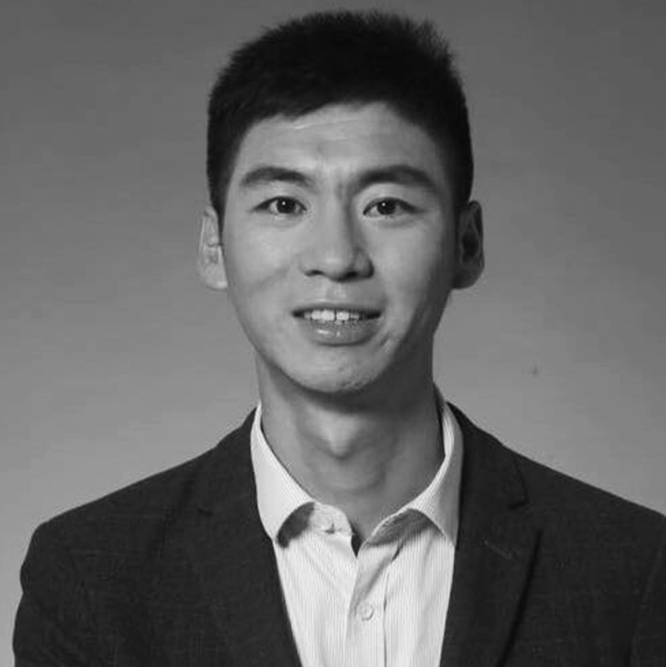
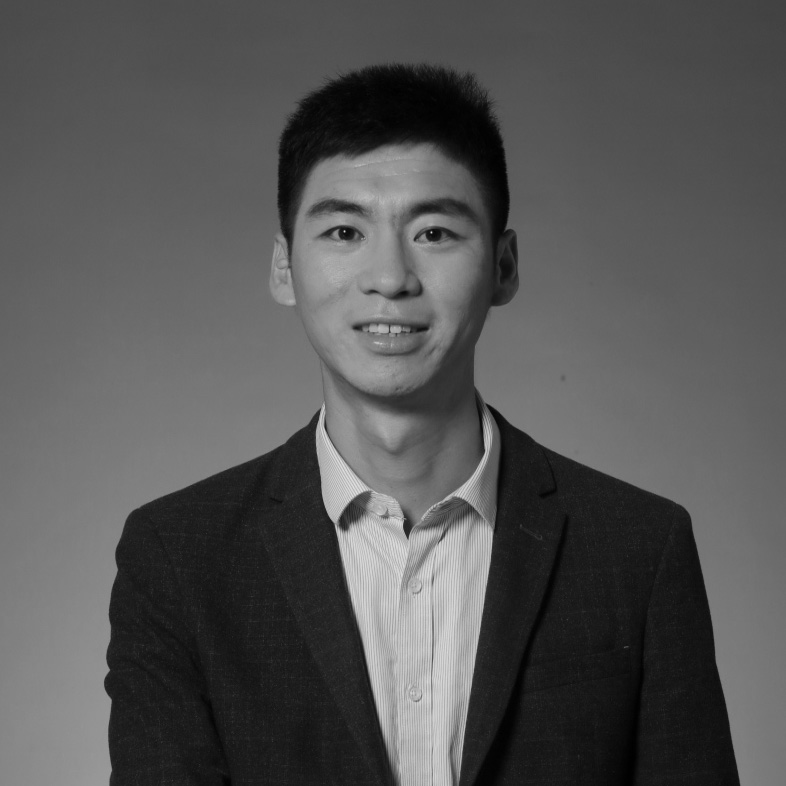
bug

diff --git a/public/populstay_webpage/css/main.css b/public/populstay_webpage/css/main.css
@@ -1,4 +1,4 @@
-body,button,ul{margin:0}.col-2,.col-3,.col-4,.col-5,.col-6,.col-7{float:left}*{font-family:"Helvetica Neue",Helvetica,"Hiragino Sans GB","Microsoft YaHei","Noto Sans CJK SC","WenQuanYi Micro Hei",Arial,sans-serif;box-sizing:border-box;font-size:14px}body{padding-bottom:70px}ul{list-style:none;padding-left:0}button{padding:0}h2{font-size:24px}h3{font-size:20px}p{line-height:1.4em}label{font-size:14px}span{font-size:12px}a{text-decoration:none;color:inherit}.text-center{text-align:center}.text-right{text-align:right}.align-middle{vertical-align:middle}.align-top{vertical-align:top}.col-2{width:20%}.col-3{width:30%}.col-4{width:40%}.col-5{width:50%}.col-6{width:60%}.col-7{width:70%}.container{max-width:1000px;margin:auto}.sub-container{max-width:900px;margin:auto}.road-map{padding:70px 10px}.road-map__title{width:25%;margin-bottom:70px}.road-map__content{width:100%;padding-top:80%;background-image:url(../img/road-map.png);background-repeat:no-repeat;background-size:100% auto;background-position:center center}.loading{text-align:center;position:fixed;width:100%;height:100%;background:#151b4e;z-index:200}.loading.hidden{display:none!important}.spinner{width:40px;height:40px;position:relative;top:50%;margin:20px auto;-webkit-transform:translateY(-50%);-moz-transform:translateY(-50%);-o-transform:translateY(-50%);-ms-transform:translateY(-50%);transform:translateY(-50%)}.double-bounce1,.double-bounce2{width:100%;height:100%;border-radius:50%;background-color:#f5426c;opacity:.6;position:absolute;top:0;left:0;-webkit-animation:sk-bounce 2s infinite ease-in-out;animation:sk-bounce 2s infinite ease-in-out}.double-bounce2{-webkit-animation-delay:-1s;animation-delay:-1s}.qrcode-modal-img{width:100%}@-webkit-keyframes sk-bounce{0%,100%{-webkit-transform:scale(0)}50%{-webkit-transform:scale(1)}}@keyframes sk-bounce{0%,100%{transform:scale(0);-webkit-transform:scale(0)}50%{transform:scale(1);-webkit-transform:scale(1)}}@media (max-width:1200px){.container{max-width:800px}.sub-container{max-width:720px}}@media (max-width:1024px){h2{font-size:20px}h3{font-size:14px}label{font-size:12px}span{font-size:11px}}@media (max-width:960px){p{font-size:12px}.container{max-width:640px}.sub-container{max-width:600px}}@media (max-width:767px){.road-map{padding-top:20px;padding-bottom:20px}.road-map__title{margin:14px 0;width:36%}.road-map__content{padding-top:285%;background-image:url(../img/road-map-mobile.png)}}.header{position:relative;padding-top:50%;min-height:500px;background-color:#2e246d;color:#fff;background-image:url(../img/homepage_bg.jpg);background-repeat:no-repeat;background-size:cover}.header__content{position:absolute;left:0;right:0;top:50%;padding:0 10px;transform:translateY(-50%);-webkit-transform:translateY(-50%);-moz-transform:translateY(-50%);-ms-transform:translateY(-50%)}.header__logo{position:absolute;top:0;left:0;margin:24px;max-height:70px}.header__title{margin:0 0 .5em;line-height:1em;font-size:100px}.header__social-icons{padding:1em 0;color:#5f3082}.header__social-icons:after,.header__social-icons:before{content:"";vertical-align:middle;display:inline-block;height:1px;width:150px;background-color:#fff}.header__social-icons .iconfont{font-size:16px;line-height:26px}.header__social{display:inline-block;margin:0 3px}.header__social a{display:inline-block;width:26px;height:26px;background-color:#fff;border-radius:50%}.header__description{font-weight:300;line-height: 1.9;}.header__description a{text-decoration:underline}.header__demo-button{display:inline-block;margin:20px 0;font-size:0}.header__demo-button img{max-height:30px;float:left}.header__demo-button-text{display:inline-block;padding:0 15px;margin-left:-1px;border:2px solid #fff;height:30px;line-height:26px;font-weight:200}.advantage{padding:45px 10px 30px;color:#555;background:#f7f7f7}.advantage__list{font-size:0}.advantage__list img{position:relative;height:inherit;z-index:1}.advantage__list label{display:block;font-weight:700}.advantage__list span{font-weight:300}.advantage__item{position:relative;display:inline-block;padding:0 15px 0 0;min-width: 150px;}.advantage__item:first-child{padding-right:30px}.advantage__item:first-child .advantage__icon:before{width:30%;left:auto;right:0}.advantage__item:first-child .advantage__icon:after{right:-15px}.advantage__icon{display:block;margin-bottom:14px;height:48px}.advantage__icon:after,.advantage__icon:before{content:"";position:absolute;left:0;display:inline-block;height:2px;width:100%;background-color:#555;transform:translateY(24px);-webkit-transform:translateY(24px);-moz-transform:translateY(24px);-ms-transform:translateY(24px)}.advantage__icon:after{top:-4px;left:auto;right:15px;height:10px;width:10px;border-radius:50%}.advantage__logo{padding-right:0}.advantage__logo .advantage__icon{padding-left:40px;height:80px}.advantage__logo .advantage__icon img{transform:translateY(-10%);-webkit-transform:translateY(-10%);-moz-transform:translateY(-10%);-ms-transform:translateY(-10%)}.advantage__logo .advantage__icon:before{width:10%}.advantage__logo .advantage__icon:after{top:-7px;left:4%;right:auto;height:8px;width:8px;border:4px solid #151b4e;background-color:#f5426c}.lock-design:before,.story:before{left:-10px;content:""}.story-product__container{padding:0 10px;background-repeat:no-repeat;background-size:100% auto;background-position:center center}.story-product__container:after{content:"";display:block;margin:-20px auto 0;border-left:1px solid #151b4e;max-width:999px;height:20px}.story-product__description{padding:14px 0;margin:auto;font-size:12px;color:#827d77;opacity:.8}.story{position:relative;padding:0 10px}.story:before{position:absolute;bottom:0;width:50%;height:1px;background-color:#f5426c}.story .col-3:before{content:"";display:block;padding-top:56%}.story .story-product__description{width:60%}.story__content{border-bottom:1px solid #f5426c}.story__content:after{content:"";display:block;clear:both}.story__avatar{position:relative;width:70%;background:#fff;display:inline-block}.story__article{padding:50px 0 100px;border-right:1px solid #f5426c}.story__title{font-size:0}.story__title-img{display:inline-block;padding-left:15%;width:100%}.story__subtitle{text-align:center;padding:40px 0;margin:0;color:#f5426c}.product{-webkit-transform:translateY(-20px);-moz-transform:translateY(-20px);transform:translateY(-20px)}.product__title{text-align:right;margin-right:-40px;border-width:1px 0 0 1px;border-style:solid;border-color:#151b4e}.lock-design .container,.platform .container,.product__article{border-left:1px solid #151b4e}.product__title-img{width:50%;display:inline-block}.product__subtitle{padding:50px 0}.product__subtitle-img{width:50%}.product__article{padding:40px}.lock-design{position:relative;padding:0 10px;max-width:100%;overflow-x:hidden}.lock-design:before{position:absolute;top:0;display:block;width:50%;height:100%;background-color:#f7f7f7}.lock-design li{text-align:center;display:inline-block;width:15%;background-repeat:no-repeat;background-size:100% auto;background-position:center}.lock-design li:before{content:"";display:block;width:100%}.lock-design .container{position:relative;padding:40px 45px;background-color:#f7f7f7;border-radius:0 24px 24px 0;z-index:1}.lock-design__title{margin:0;color:#555;font-weight:500}.lock-design__intro{text-align:right;padding:50px 10px}.lock-design li.lock-design__avatar{margin:0 20px;width:12%;background-image:url(../img/lock-design-avatar.png)}.lock-design li.lock-design__avatar:before{padding-top:104%}.lock-design li.lock-design__avatar:after{display:block;color:#555;transform:translateY(100%);-webkit-transform:translateY(100%);-moz-transform:translateY(100%);-ms-transform:translateY(100%)}.blog__content:after,.blog__feedback+.blog__feedback:before,.communication__detail:after,.contact-us:before,.contact-us__card:after,.intro .container:after,.intro .container:before,.intro__partners:after,.lock-design__intro~.lock-design__intro .lock-design__locker:after,.machine .container:after,.news .container:before,.organization .container:after,.platform .col-4:before,.platform .container:after,.sub-container .services__detail:before{content:""}.lock-design__process{background-image:url(../img/lock-design-process1.png)}.lock-design__process:before{padding-top:100%}.lock-design__process~.lock-design__process{background-image:url(../img/lock-design-process2.png)}.lock-design__locker{position:relative;background-image:url(../img/lock-design-locker.png)}.lock-design__locker:before{padding-top:120%}.platform{position:relative;padding:0 10px}.platform .container:after{display:block;clear:both}.platform__intro{position:absolute;top:50px;left:0;right:0;background:#f7f7f7}.platform__intro h3{padding:10px 45px;margin:0}.platform .col-4{position:relative}.platform .col-4:before{position:absolute;left:-1px;display:block;width:1px;height:100%;background-color:#151b4e}.platform .col-6{position:relative;padding-top:28%;padding-bottom:50px;z-index:1}.platform__bg{padding:150px 0 100px;margin-left:-15%;width:120%}.platform__title{padding:10px 0;width:60%}.blog__img,.organization__title{width:100%}.platform__subtitle{padding:14px 0;margin:0;color:#555}.platform__description{margin:30px 0;color:#827d77;opacity:.8}.organization{padding:0 10px}.organization .container{padding-bottom:80px;background-image:url(../img/organization-bg.png);background-repeat:no-repeat;background-size:auto 90%;background-position:right center}.organization .container:after{display:block;clear:both}.organization__detail{padding-left:10%}.organization__subtitle{padding:14px 0;color:#555}.organization__description{color:#827d77;opacity:.8}.lorem-ipsum{position:relative;padding:0 10px}.lorem-ipsum iframe{position:absolute;left:0;top:0}.lorem-ipsum__title{color:#555}.lorem-ipsum__hint{width:80%;line-height:1.9em;color:#827d77;opacity:.8}.lorem-ipsum__video{position:relative;width:50%;float:left;}.blog{padding:0 10px;margin-top:70px;margin-bottom:70px}.blog .sub-container{border:1px solid #151b4e;transform:translate(15px,-15px);-webkit-transform:translate(15px,-15px);-moz-transform:translate(15px,-15px);-ms-transform:translate(15px,-15px)}.blog__detail{position:relative;padding:30px 50px;border:1px solid #f5426c;background-color:#fff;transform:translate(-15px,15px);-webkit-transform:translate(-15px,15px);-moz-transform:translate(-15px,15px);-ms-transform:translate(-15px,15px)}.blog__title{margin:20px 0;color:#555}.blog__subtitle{display:block;margin:20px 0 40px;font-weight:300}.blog__content{position:relative;padding:50px 0;border-width:1px 0;border-style:solid;border-color:#827d77}.blog__content:after{display:block;clear:both;bottom:0}.blog__img{display:block;height:auto;min-height:1px;background:#f7f7f7;margin-left: 5%;width: 90%;}.blog__feedback,.blog__social,.blog__social a,.blog__social-icons{display:inline-block}.blog__next-btn,.blog__prev-btn,.intro__divider,.intro__team-item-img,.services__type-line,.subscribe,.subscribe__logo{background-repeat:no-repeat}.blog__tag{padding:3px 20px;line-height:1em;color:#fff;background-color:#f5426c;font-weight:300;font-style:normal}.blog__article-title{margin:30px auto;max-width:200px;color:#555}.blog__article{margin:0 auto 50px;font-size:16px;max-width:350px;color:#827d77;font-weight:300;opacity:.8}.blog__view-more-btn{color:#f5426c;cursor:pointer;font-size:12px}.blog__feedback{color:#555}.blog__feedback+.blog__feedback:before{vertical-align:middle;display:inline-block;margin:0 5px;width:1px;height:10px;background-color:#555}.blog__message-icon,.blog__share-icon,.blog__watch-icon{max-height:12px}.blog__social-container{padding:30px 0;color:#555}.blog__social-container label{font-size:12px}.blog__social{margin:0 3px;color:#fff}.blog__social a{width:20px;height:20px;background-color:#555;border-radius:50%}.blog__social .iconfont{font-size:12px;line-height:20px}.blog__next-btn,.blog__prev-btn{cursor:pointer;position:absolute;top:50%;width:50px;height:50px;background-size:100% 100%;transform:translateY(-50%);-webkit-transform:translateY(-50%);-moz-transform:translateY(-50%);-ms-transform:translateY(-50%)}.blog__prev-btn{left:-25px;background-image:url(../img/blog-prev.png)}.blog__next-btn{right:-25px;background-image:url(../img/blog-next.png)}.services{padding:0 10px;color:#fff}.services h3{margin:0}.services h4{font-size:16px;font-weight:300}.services .col-3{margin:0 10%}.services .sub-container{border:1px solid #f5426c;background-color:#fff;transform:translate(20px,20px);-webkit-transform:translate(20px,20px);-moz-transform:translate(20px,20px);-ms-transform:translate(20px,20px)}.sub-container .services__detail{position:relative;padding:10% 0;background-color:#151b4e;transform:translate(-20px,-20px);-webkit-transform:translate(-20px,-20px);-moz-transform:translate(-20px,-20px);-ms-transform:translate(-20px,-20px)}.sub-container .services__detail:before{position:absolute;left:0;top:20px;padding-top:12%;width:50%;background-image:url(../img/service-pic.png);background-repeat:no-repeat;background-position:top left;background-size:80% auto;transform:translateX(-5%);-webkit-transform:translateX(-5%);-moz-transform:translateX(-5%);-ms-transform:translateX(-5%)}.intro__divider,.intro__team-item-img,.news .container:before,.services__type-line,.subscribe,.subscribe__logo{background-size:100% auto}.sub-container .services__detail:after{content:"";display:block;clear:both}.services__title{margin:10px 0 60px;font-size:30px}.services__type-line{display:block;margin:auto;width:30%;padding-top:8%;background-image:url(../img/service-line.png);background-position:left center}.services__roles{width:60%;margin:auto}.services__roles span{display:block;margin:10px 0 15px;min-height:30px}.services__role-effect-icon{width:100%}.intro{padding:0 10px;margin:50px 0}.intro .container{position:relative;font-size:0}.intro .container:after,.intro .container:before{position:absolute;display:block;width:1px;height:100%}.intro__team-item,.intro__team-item a{display:inline-block}.intro .container:before{top:15%;left:1%;background-color:#f5426c}.intro .container:after{top:18%;right:1.8%;background-color:#151b4e}.intro .container~.container:after,.intro .container~.container:before{top:0}.intro__bottom-line{position:absolute;width:80%;height:14px}.intro__bottom-line.pink{bottom:-14px;left:1%;border-bottom:1px solid #f5426c;border-left:1px solid #f5426c}.intro__bottom-line.blue{bottom:0;right:1.8%;border-bottom:1px solid #151b4e;border-right:1px solid #151b4e}.intro__team-title{width:100%}.intro__team-wrapper{padding:70px 0;font-size:0}.intro__team-item{margin-bottom:30px;width:33.333333%}.intro__team-item a~a{display:block;margin:15px auto 5px;width:120px}.intro__team-item-img{display:inline-block;width:100px;height:100px;border:2px solid #f5426c;border-radius:50%;margin:0 auto;background-position:30% 20%;}.intro__team-item-img.wang{background-image:url(../img/team-wangyue.jpg)}.intro__team-item-img.cai{background-image:url(../img/team-cai.jpg)}.intro__team-item-img.lin{background-image:url(../img/team-brainLin.jpg)}.intro__team-item-img.l-jun,.intro__team-item-img.tao{background-image:url(../img/team-cai.jpg)}.intro__team-item-img.zhong{background-image:url(../img/team-christie.jpg)}.intro__team-item-img.e{background-image:url(../img/team-e.jpg)}.intro__team-item-img.dw-jun{background-image:url(../img/team-eric.jpg)}.intro__team-item-name{display:block;padding:5px 0;width:100%;color:#fff;background-color:#f5426c;font-style:normal}.intro__team-item-title{color:#827d77;font-weight:300}.intro__partner-container{position:relative;padding:70px 0}.intro__partner-title{margin-bottom:50px;width:25%}.intro__partners{margin:auto;width:70%}.intro__partners:after{display:block;clear:both}.intro__partner{float:left;padding:0 5%;margin:5px 0;width:33.333333%;min-height:100px;position:relative;}.intro__partner a{display:block}.intro__partner img{width:80%;position: absolute;top:50%;left:50%;transform: translate(-50%,-50%)}.intro__partner:first-child img{padding:10px 0}.intro__divider{width:50%;padding-top:7%;margin-left:50%;background-image:url(../img/team-pic.png);background-position:top center}.subscribe{text-align:center;padding:70px 0;background-image:url(../img/email-bg.jpg);background-position:center center}.subscribe__logo{display:block;margin:auto;width:50px;height:50px;background-image:url(../img/email-icon.png)}.subscribe__title{margin:30px 0;color:#fff;font-weight:300}.subscribe__email{position:relative;margin:0 auto;max-width:400px;height:40px;font-size:0}.subscribe__email-validate-error{position:absolute;left:0;top:44px;color:red;font-size:13px}.subscribe__input{display:inline-block;font-size:14px;width:65%;height:100%;color:#555}.subscribe__input input{padding:3px 12px;width:100%;height:100%;border:0;font-weight:300}.subscribe__btn{display:inline-block;width:35%;height:100%}.subscribe__btn button{margin-left:-2px;border:0;font-size:12px;width:100%;height:100%;color:#fff;background-color:#151b4e;font-weight:300}.news{padding:70px 10px;background-image:url(../img/new-bg.png);background-position:top left;background-repeat:repeat-x}.communication__bg,.contact-us,.contact-us__icon,.footer__info-img,.machine .col-5~.col-5,.news .container:before{background-repeat:no-repeat}.news .container{position:relative}.news .container:before{display:block;width:100%;padding-top:55%;}.news__detail{position:absolute;left:0;bottom:0;width:100%;height:70%}.news__content{display:block;width:45%;margin:auto}.news__title{width:50%;margin:4% auto}.news__channels{width:70%;margin:auto;font-size:0}.news__channel{display:inline-block;padding:0 15px;width:25%}.news__channel a{display:block}.news__channel img{width:100%}.machine{padding:0 10px}.machine .container{position:relative}.machine .container:after{display:block;clear:both}.machine .col-5{padding:50px 0 40px 3%}.machine .col-5~.col-5{position:absolute;left:50%;height:100%;background-image:url(../img/吉祥物-05.gif);background-size:80% auto;background-position:right center}.machine__title-img{width:50%}.machine__subtitle{color:#555}.machine__description{color:#827d77;opacity:.8}.communication{padding:0 10px}.communication__detail{position:relative}.communication__detail:after{display:block;clear:both}.communication .col-5{padding:50px 0}.communication .col-5:first-child{position:absolute;left:0;height:100%;background-image:url(../img/communication-pic.png);background-repeat:no-repeat;background-size:85%;background-position:center center}.communication .col-5~.col-5{margin-left:50%;padding-right:5%}.communication__title-img{width:105%}.communication__subtitle{color:#555}.communication__description{color:#827d77;opacity:.8}.communication__bg{width:100%;padding-top:10%;background-image:url(../img/communication-bg.png);background-size:auto 100%;background-position:right center}.contact-us{padding:70px 0;background-image:url(../img/contact-us-bg.png);background-size:100% 80%;background-position:left top}.contact-us input[type=number]::-webkit-inner-spin-button,.contact-us input[type=number]::-webkit-outer-spin-button{-webkit-appearance:none;-moz-appearance:textfield}.contact-us .col-5{padding-top:50px}.contact-us:before{display:block;width:100%;padding-top:20%}.contact-us__card{padding:50px 30px;margin-left:40%;width:60%;background-color:rgba(255,255,255,.8);border-radius:12px;box-shadow:2px 2px 12px 0 rgba(0,0,0,.4)}.contact-us__card:after{display:block;clear:both}.contact-us__title{width:50%}.contact-us__form-item input{padding:6px 12px;margin:5px 0;border:1px solid #555;width:100%;height:36px;background-color:transparent;border-radius:12px}.contact-us__textarea{position:relative;margin:5px 0;border:1px solid #555;border-radius:12px}.contact-us__textarea label{display:block;padding:9px 12px;margin-top:-1px;border:1px solid #555;color:#f5426c;border-radius:12px}.contact-us__textarea textarea{padding:6px 12px;width:100%;border:0;background-color:transparent;resize:none;outline:0}.contact-us__textarea .formtips{position:absolute;margin-top:5px}.contact-us__submit{margin-top:50px;max-width:100px;border:0;background-color:transparent}.contact-us__submit img{width:100%}.contact-us__contacter-info{padding-left:10%}.contact-us__contacter-info label{display:block;margin-bottom:16px;color:#555}.contact-us__tag{display:inline-block;padding:3px 15px;margin:7px 0;color:#fff;background-color:#555}.contact-us__tag i{font-size:12px;font-style:normal;font-weight:300}.contact-us__contacter li{margin-bottom:17px;margin-top: 5px;}.contact-us__icon{display:inline-block;width:30px;height:30px;background-size:100% auto;background-position:center}.contact-us__icon.name{background-image:url(../img/contact-us-user.png)}.contact-us__icon.email{background-image:url(../img/contact-us-message.png)}.contact-us__icon.phone{background-image:url(../img/contact-us-phone.png)}.contact-us__icon~span{margin-left:10px;color:#f5426c}.contact-us .formtips{color:red}.footer .header__social-icons{font-size:0;color:#fff}.footer .header__social-icons:after,.footer .header__social-icons:before{content:none}.footer .header__social{margin-top:3px;margin-bottom:3px}.footer .header__social a{background-color:#827d77}.footer__info{border-bottom:1px solid #f5426c;font-size:0}.footer__info:after{content:"";display:block;clear:both}.footer__contact{padding-top:2%}.footer__contact-title{color:#555;font-weight:400}.footer__follow{padding-top:2%;padding-left:5%}.footer__contact-address,.footer__contact-email{font-size:12px;color:#827d77}.footer__follow-title{margin-left:15px;margin-right:3px;color:#555;font-weight:400}.footer__copyright{margin:30px 0}.footer__copyright-title{display:inline-block;max-width:300px}.footer__copyright-logo{display:inline-block;margin:0 20px;max-width:44px}#prompt{display: none;position: fixed;top:50%;left: 50%;transform:translate(-50%,-50%);background: #fff;border:1px solid #f5426c;padding:3% 5%;border-radius: 8px;}#prompt h3{color: #f5426c;margin-bottom: 30px;font-size: 1.8rem;}#prompt button{cursor: pointer;width: 100%;background: #fff;border:1px solid #f5426c;color: #f5426c;padding: 2% 0;border-radius: 8px;}
+body,button,ul{margin:0}.col-2,.col-3,.col-4,.col-5,.col-6,.col-7{float:left}*{font-family:"Helvetica Neue",Helvetica,"Hiragino Sans GB","Microsoft YaHei","Noto Sans CJK SC","WenQuanYi Micro Hei",Arial,sans-serif;box-sizing:border-box;font-size:14px}body{padding-bottom:70px}ul{list-style:none;padding-left:0}button{padding:0}h2{font-size:24px}h3{font-size:20px}p{line-height:1.4em}label{font-size:14px}span{font-size:12px}a{text-decoration:none;color:inherit}.text-center{text-align:center}.text-right{text-align:right}.align-middle{vertical-align:middle}.align-top{vertical-align:top}.col-2{width:20%}.col-3{width:30%}.col-4{width:40%}.col-5{width:50%}.col-6{width:60%}.col-7{width:70%}.container{max-width:1000px;margin:auto}.sub-container{max-width:900px;margin:auto}.road-map{padding:70px 10px}.road-map__title{width:25%;margin-bottom:70px}.road-map__content{width:100%;padding-top:80%;background-image:url(../img/road-map.png);background-repeat:no-repeat;background-size:100% auto;background-position:center center}.loading{text-align:center;position:fixed;width:100%;height:100%;background:#151b4e;z-index:200}.loading.hidden{display:none!important}.spinner{width:40px;height:40px;position:relative;top:50%;margin:20px auto;-webkit-transform:translateY(-50%);-moz-transform:translateY(-50%);-o-transform:translateY(-50%);-ms-transform:translateY(-50%);transform:translateY(-50%)}.double-bounce1,.double-bounce2{width:100%;height:100%;border-radius:50%;background-color:#f5426c;opacity:.6;position:absolute;top:0;left:0;-webkit-animation:sk-bounce 2s infinite ease-in-out;animation:sk-bounce 2s infinite ease-in-out}.double-bounce2{-webkit-animation-delay:-1s;animation-delay:-1s}.qrcode-modal-img{width:100%}@-webkit-keyframes sk-bounce{0%,100%{-webkit-transform:scale(0)}50%{-webkit-transform:scale(1)}}@keyframes sk-bounce{0%,100%{transform:scale(0);-webkit-transform:scale(0)}50%{transform:scale(1);-webkit-transform:scale(1)}}@media (max-width:1200px){.container{max-width:800px}.sub-container{max-width:720px}}@media (max-width:1024px){h2{font-size:20px}h3{font-size:14px}label{font-size:12px}span{font-size:11px}}@media (max-width:960px){p{font-size:12px}.container{max-width:640px}.sub-container{max-width:600px}}@media (max-width:767px){.road-map{padding-top:20px;padding-bottom:20px}.road-map__title{margin:14px 0;width:36%}.road-map__content{padding-top:285%;background-image:url(../img/road-map-mobile.png)}}.header{position:relative;padding-top:50%;min-height:500px;background-color:#2e246d;color:#fff;background-image:url(../img/homepage_bg.jpg);background-repeat:no-repeat;background-size:cover}.header__content{position:absolute;left:0;right:0;top:50%;padding:0 10px;transform:translateY(-50%);-webkit-transform:translateY(-50%);-moz-transform:translateY(-50%);-ms-transform:translateY(-50%)}.header__logo{position:absolute;top:0;left:0;margin:24px;max-height:70px}.header__title{margin:0 0 .5em;line-height:1em;font-size:100px}.header__social-icons{padding:1em 0;color:#5f3082}.header__social-icons:after,.header__social-icons:before{content:"";vertical-align:middle;display:inline-block;height:1px;width:150px;background-color:#fff}.header__social-icons .iconfont{font-size:16px;line-height:26px}.header__social{display:inline-block;margin:0 3px}.header__social a{display:inline-block;width:26px;height:26px;background-color:#fff;border-radius:50%}.header__description{font-weight:300;line-height: 1.9;}.header__description a{text-decoration:underline}.header__demo-button{display:inline-block;margin:20px 0;font-size:0}.header__demo-button img{max-height:30px;float:left}.header__demo-button-text{display:inline-block;padding:0 15px;margin-left:-1px;border:2px solid #fff;height:30px;line-height:26px;font-weight:200}.advantage{padding:45px 10px 30px;color:#555;background:#f7f7f7}.advantage__list{font-size:0}.advantage__list img{position:relative;height:inherit;z-index:1}.advantage__list label{display:block;font-weight:700}.advantage__list span{font-weight:300}.advantage__item{position:relative;display:inline-block;padding:0 15px 0 0;min-width: 150px;}.advantage__item:first-child{padding-right:30px}.advantage__item:first-child .advantage__icon:before{width:30%;left:auto;right:0}.advantage__item:first-child .advantage__icon:after{right:-15px}.advantage__icon{display:block;margin-bottom:14px;height:48px}.advantage__icon:after,.advantage__icon:before{content:"";position:absolute;left:0;display:inline-block;height:2px;width:100%;background-color:#555;transform:translateY(24px);-webkit-transform:translateY(24px);-moz-transform:translateY(24px);-ms-transform:translateY(24px)}.advantage__icon:after{top:-4px;left:auto;right:15px;height:10px;width:10px;border-radius:50%}.advantage__logo{padding-right:0}.advantage__logo .advantage__icon{padding-left:40px;height:80px}.advantage__logo .advantage__icon img{transform:translateY(-10%);-webkit-transform:translateY(-10%);-moz-transform:translateY(-10%);-ms-transform:translateY(-10%)}.advantage__logo .advantage__icon:before{width:10%}.advantage__logo .advantage__icon:after{top:-7px;left:4%;right:auto;height:8px;width:8px;border:4px solid #151b4e;background-color:#f5426c}.lock-design:before,.story:before{left:-10px;content:""}.story-product__container{padding:0 10px;background-repeat:no-repeat;background-size:100% auto;background-position:center center}.story-product__container:after{content:"";display:block;margin:-20px auto 0;border-left:1px solid #151b4e;max-width:999px;height:20px}.story-product__description{padding:14px 0;margin:auto;font-size:12px;color:#827d77;opacity:.8}.story{position:relative;padding:0 10px}.story:before{position:absolute;bottom:0;width:50%;height:1px;background-color:#f5426c}.story .col-3:before{content:"";display:block;padding-top:56%}.story .story-product__description{width:60%}.story__content{border-bottom:1px solid #f5426c}.story__content:after{content:"";display:block;clear:both}.story__avatar{position:relative;width:70%;background:#fff;display:inline-block}.story__article{padding:50px 0 100px;border-right:1px solid #f5426c}.story__title{font-size:0}.story__title-img{display:inline-block;padding-left:15%;width:100%}.story__subtitle{text-align:center;padding:40px 0;margin:0;color:#f5426c}.product{-webkit-transform:translateY(-20px);-moz-transform:translateY(-20px);transform:translateY(-20px)}.product__title{text-align:right;margin-right:-40px;border-width:1px 0 0 1px;border-style:solid;border-color:#151b4e}.lock-design .container,.platform .container,.product__article{border-left:1px solid #151b4e}.product__title-img{width:50%;display:inline-block}.product__subtitle{padding:50px 0}.product__subtitle-img{width:50%}.product__article{padding:40px}.lock-design{position:relative;padding:0 10px;max-width:100%;overflow-x:hidden}.lock-design:before{position:absolute;top:0;display:block;width:50%;height:100%;background-color:#f7f7f7}.lock-design li{text-align:center;display:inline-block;width:15%;background-repeat:no-repeat;background-size:100% auto;background-position:center}.lock-design li:before{content:"";display:block;width:100%}.lock-design .container{position:relative;padding:40px 45px;background-color:#f7f7f7;border-radius:0 24px 24px 0;z-index:1}.lock-design__title{margin:0;color:#555;font-weight:500}.lock-design__intro{text-align:right;padding:50px 10px}.lock-design li.lock-design__avatar{margin:0 20px;width:12%;background-image:url(../img/lock-design-avatar.png)}.lock-design li.lock-design__avatar:before{padding-top:104%}.lock-design li.lock-design__avatar:after{display:block;color:#555;transform:translateY(100%);-webkit-transform:translateY(100%);-moz-transform:translateY(100%);-ms-transform:translateY(100%)}.blog__content:after,.blog__feedback+.blog__feedback:before,.communication__detail:after,.contact-us:before,.contact-us__card:after,.intro .container:after,.intro .container:before,.intro__partners:after,.lock-design__intro~.lock-design__intro .lock-design__locker:after,.machine .container:after,.news .container:before,.organization .container:after,.platform .col-4:before,.platform .container:after,.sub-container .services__detail:before{content:""}.lock-design__process{background-image:url(../img/lock-design-process1.png)}.lock-design__process:before{padding-top:100%}.lock-design__process~.lock-design__process{background-image:url(../img/lock-design-process2.png)}.lock-design__locker{position:relative;background-image:url(../img/lock-design-locker.png)}.lock-design__locker:before{padding-top:120%}.platform{position:relative;padding:0 10px}.platform .container:after{display:block;clear:both}.platform__intro{position:absolute;top:50px;left:0;right:0;background:#f7f7f7}.platform__intro h3{padding:10px 45px;margin:0}.platform .col-4{position:relative}.platform .col-4:before{position:absolute;left:-1px;display:block;width:1px;height:100%;background-color:#151b4e}.platform .col-6{position:relative;padding-top:28%;padding-bottom:50px;z-index:1}.platform__bg{padding:150px 0 100px;margin-left:-15%;width:120%}.platform__title{padding:10px 0;width:60%}.blog__img,.organization__title{width:100%}.platform__subtitle{padding:14px 0;margin:0;color:#555}.platform__description{margin:30px 0;color:#827d77;opacity:.8}.organization{padding:0 10px}.organization .container{padding-bottom:80px;background-image:url(../img/organization-bg.png);background-repeat:no-repeat;background-size:auto 90%;background-position:right center}.organization .container:after{display:block;clear:both}.organization__detail{padding-left:10%}.organization__subtitle{padding:14px 0;color:#555}.organization__description{color:#827d77;opacity:.8}.lorem-ipsum{position:relative;padding:0 10px}.lorem-ipsum iframe{position:absolute;left:0;top:0}.lorem-ipsum__title{color:#555}.lorem-ipsum__hint{width:80%;line-height:1.9em;color:#827d77;opacity:.8}.lorem-ipsum__video{position:relative;width:50%;float:left;}.blog{padding:0 10px;margin-top:70px;margin-bottom:70px}.blog .sub-container{border:1px solid #151b4e;transform:translate(15px,-15px);-webkit-transform:translate(15px,-15px);-moz-transform:translate(15px,-15px);-ms-transform:translate(15px,-15px)}.blog__detail{position:relative;padding:30px 50px;border:1px solid #f5426c;background-color:#fff;transform:translate(-15px,15px);-webkit-transform:translate(-15px,15px);-moz-transform:translate(-15px,15px);-ms-transform:translate(-15px,15px)}.blog__title{margin:20px 0;color:#555}.blog__subtitle{display:block;margin:20px 0 40px;font-weight:300}.blog__content{position:relative;padding:50px 0;border-width:1px 0;border-style:solid;border-color:#827d77}.blog__content:after{display:block;clear:both;bottom:0}.blog__img{display:block;height:auto;min-height:1px;background:#f7f7f7;margin-left: 5%;width: 90%;}.blog__feedback,.blog__social,.blog__social a,.blog__social-icons{display:inline-block}.blog__next-btn,.blog__prev-btn,.intro__divider,.intro__team-item-img,.services__type-line,.subscribe,.subscribe__logo{background-repeat:no-repeat}.blog__tag{padding:3px 20px;line-height:1em;color:#fff;background-color:#f5426c;font-weight:300;font-style:normal}.blog__article-title{margin:30px auto;max-width:200px;color:#555}.blog__article{margin:0 auto 50px;font-size:16px;max-width:350px;color:#827d77;font-weight:300;opacity:.8}.blog__view-more-btn{color:#f5426c;cursor:pointer;font-size:12px}.blog__feedback{color:#555}.blog__feedback+.blog__feedback:before{vertical-align:middle;display:inline-block;margin:0 5px;width:1px;height:10px;background-color:#555}.blog__message-icon,.blog__share-icon,.blog__watch-icon{max-height:12px}.blog__social-container{padding:30px 0;color:#555}.blog__social-container label{font-size:12px}.blog__social{margin:0 3px;color:#fff}.blog__social a{width:20px;height:20px;background-color:#555;border-radius:50%}.blog__social .iconfont{font-size:12px;line-height:20px}.blog__next-btn,.blog__prev-btn{cursor:pointer;position:absolute;top:50%;width:50px;height:50px;background-size:100% 100%;transform:translateY(-50%);-webkit-transform:translateY(-50%);-moz-transform:translateY(-50%);-ms-transform:translateY(-50%)}.blog__prev-btn{left:-25px;background-image:url(../img/blog-prev.png)}.blog__next-btn{right:-25px;background-image:url(../img/blog-next.png)}.services{padding:0 10px;color:#fff}.services h3{margin:0}.services h4{font-size:16px;font-weight:300}.services .col-3{margin:0 10%}.services .sub-container{border:1px solid #f5426c;background-color:#fff;transform:translate(20px,20px);-webkit-transform:translate(20px,20px);-moz-transform:translate(20px,20px);-ms-transform:translate(20px,20px)}.sub-container .services__detail{position:relative;padding:10% 0;background-color:#151b4e;transform:translate(-20px,-20px);-webkit-transform:translate(-20px,-20px);-moz-transform:translate(-20px,-20px);-ms-transform:translate(-20px,-20px)}.sub-container .services__detail:before{position:absolute;left:0;top:20px;padding-top:12%;width:50%;background-image:url(../img/service-pic.png);background-repeat:no-repeat;background-position:top left;background-size:80% auto;transform:translateX(-5%);-webkit-transform:translateX(-5%);-moz-transform:translateX(-5%);-ms-transform:translateX(-5%)}.intro__divider,.intro__team-item-img,.news .container:before,.services__type-line,.subscribe,.subscribe__logo{background-size:100% auto}.sub-container .services__detail:after{content:"";display:block;clear:both}.services__title{margin:10px 0 60px;font-size:30px}.services__type-line{display:block;margin:auto;width:30%;padding-top:8%;background-image:url(../img/service-line.png);background-position:left center}.services__roles{width:60%;margin:auto}.services__roles span{display:block;margin:10px 0 15px;min-height:30px}.services__role-effect-icon{width:100%}.intro{padding:0 10px;margin:50px 0}.intro .container{position:relative;font-size:0}.intro .container:after,.intro .container:before{position:absolute;display:block;width:1px;height:100%}.intro__team-item,.intro__team-item a{display:inline-block}.intro .container:before{top:15%;left:1%;background-color:#f5426c}.intro .container:after{top:18%;right:1.8%;background-color:#151b4e}.intro .container~.container:after,.intro .container~.container:before{top:0}.intro__bottom-line{position:absolute;width:80%;height:14px}.intro__bottom-line.pink{bottom:-14px;left:1%;border-bottom:1px solid #f5426c;border-left:1px solid #f5426c}.intro__bottom-line.blue{bottom:0;right:1.8%;border-bottom:1px solid #151b4e;border-right:1px solid #151b4e}.intro__team-title{width:100%}.intro__team-wrapper{padding:70px 0;font-size:0}.intro__team-item{margin-bottom:30px;width:33.333333%}.intro__team-item a~a{display:block;margin:15px auto 5px;width:120px}.intro__team-item-img{display:inline-block;width:100px;height:100px;border:2px solid #f5426c;border-radius:50%;margin:0 auto;background-position:30% 20%;}.intro__team-item-img.wang{background-image:url(../img/team-wangyue.jpg)}.intro__team-item-img.cai{background-image:url(../img/team-cai.jpg)}.intro__team-item-img.lin{background-image:url(../img/team-brainLin.jpg)}.intro__team-item-img.l-jun,.intro__team-item-img.tao{background-image:url(../img/team-cai.jpg)}.intro__team-item-img.zhong{background-image:url(../img/team-christie.jpg)}.intro__team-item-img.e{background-image:url(../img/team-e.jpg)}.intro__team-item-img.dw-jun{background-image:url(../img/team-eric.jpg)}.intro__team-item-name{display:block;padding:5px 0;width:100%;color:#fff;background-color:#f5426c;font-style:normal}.intro__team-item-title{color:#827d77;font-weight:300}.intro__partner-container{position:relative;padding:70px 0}.intro__partner-title{margin-bottom:50px;width:25%}.intro__partners{margin:auto;width:70%}.intro__partners:after{display:block;clear:both}.intro__partner{float:left;padding:0 5%;margin:5px 0;width:33.333333%;min-height:100px;position:relative;}.intro__partner a{display:block}.intro__partner img{width:80%;position: absolute;top:50%;left:50%;transform: translate(-50%,-50%)}.intro__partner:first-child img{padding:10px 0}.intro__divider{width:50%;padding-top:7%;margin-left:50%;background-image:url(../img/team-pic.png);background-position:top center}.subscribe{text-align:center;padding:70px 0;background-image:url(../img/email-bg.jpg);background-position:center center}.subscribe__logo{display:block;margin:auto;width:50px;height:50px;background-image:url(../img/email-icon.png)}.subscribe__title{margin:30px 0;color:#fff;font-weight:300}.subscribe__email{position:relative;margin:0 auto;max-width:400px;height:40px;font-size:0}.subscribe__email-validate-error{position:absolute;left:0;top:44px;color:red;font-size:13px}.subscribe__input{display:inline-block;font-size:14px;width:65%;height:100%;color:#555}.subscribe__input input{padding:3px 12px;width:100%;height:100%;border:0;font-weight:300}.subscribe__btn{display:inline-block;width:35%;height:100%}.subscribe__btn button{margin-left:-2px;border:0;font-size:12px;width:100%;height:100%;color:#fff;background-color:#151b4e;font-weight:300}.news{padding:70px 10px;background-image:url(../img/new-bg.png);background-position:top left;background-repeat:repeat-x}.communication__bg,.contact-us,.contact-us__icon,.footer__info-img,.machine .col-5~.col-5,.news .container:before{background-repeat:no-repeat}.news .container{position:relative}.news .container:before{display:block;width:100%;padding-top:55%;}.news__detail{position:absolute;left:0;bottom:0;width:100%;height:70%}.news__content{display:block;width:45%;margin:auto}.news__title{width:50%;margin:4% auto}.news__channels{width:70%;margin:auto;font-size:0}.news__channel{display:inline-block;padding:0 15px;width:25%}.news__channel a{display:block}.news__channel img{width:100%}.machine{padding:0 10px}.machine .container{position:relative}.machine .container:after{display:block;clear:both}.machine .col-5{padding:50px 0 40px 5%}.machine .col-5~.col-5{position:absolute;left:50%;height:100%;background-image:url(../img/吉祥物-05.gif);background-size:80% auto;background-position:right center}.machine__title-img{width:50%}.machine__subtitle{color:#555}.machine__description{color:#827d77;opacity:.8}.communication{padding:0 10px}.communication__detail{position:relative}.communication__detail:after{display:block;clear:both}.communication .col-5{padding:50px 0}.communication .col-5:first-child{position:absolute;left:0;height:100%;background-image:url(../img/communication-pic.png);background-repeat:no-repeat;background-size:85%;background-position:center center}.communication .col-5~.col-5{margin-left:50%;padding-right:5%}.communication__title-img{width:105%}.communication__subtitle{color:#555}.communication__description{color:#827d77;opacity:.8}.communication__bg{width:100%;padding-top:10%;background-image:url(../img/communication-bg.png);background-size:auto 100%;background-position:right center}.contact-us{padding:70px 0;background-image:url(../img/contact-us-bg.png);background-size:100% 80%;background-position:left top}.contact-us input[type=number]::-webkit-inner-spin-button,.contact-us input[type=number]::-webkit-outer-spin-button{-webkit-appearance:none;-moz-appearance:textfield}.contact-us .col-5{padding-top:50px}.contact-us:before{display:block;width:100%;padding-top:20%}.contact-us__card{padding:50px 30px;margin-left:40%;width:60%;background-color:rgba(255,255,255,.8);border-radius:12px;box-shadow:2px 2px 12px 0 rgba(0,0,0,.4)}.contact-us__card:after{display:block;clear:both}.contact-us__title{width:50%}.contact-us__form-item input{padding:6px 12px;margin:5px 0;border:1px solid #555;width:100%;height:36px;background-color:transparent;border-radius:12px}.contact-us__textarea{position:relative;margin:5px 0;border:1px solid #555;border-radius:12px}.contact-us__textarea label{display:block;padding:9px 12px;margin-top:-1px;border:1px solid #555;color:#f5426c;border-radius:12px}.contact-us__textarea textarea{padding:6px 12px;width:100%;border:0;background-color:transparent;resize:none;outline:0}.contact-us__textarea .formtips{position:absolute;margin-top:5px}.contact-us__submit{margin-top:50px;max-width:100px;border:0;background-color:transparent}.contact-us__submit img{width:100%}.contact-us__contacter-info{padding-left:10%}.contact-us__contacter-info label{display:block;margin-bottom:16px;color:#555}.contact-us__tag{display:inline-block;padding:3px 15px;margin:7px 0;color:#fff;background-color:#555}.contact-us__tag i{font-size:12px;font-style:normal;font-weight:300}.contact-us__contacter li{margin-bottom:17px;margin-top: 5px;}.contact-us__icon{display:inline-block;width:30px;height:30px;background-size:100% auto;background-position:center}.contact-us__icon.name{background-image:url(../img/contact-us-user.png)}.contact-us__icon.email{background-image:url(../img/contact-us-message.png)}.contact-us__icon.phone{background-image:url(../img/contact-us-phone.png)}.contact-us__icon~span{margin-left:10px;color:#f5426c}.contact-us .formtips{color:red}.footer .header__social-icons{font-size:0;color:#fff}.footer .header__social-icons:after,.footer .header__social-icons:before{content:none}.footer .header__social{margin-top:3px;margin-bottom:3px}.footer .header__social a{background-color:#827d77}.footer__info{border-bottom:1px solid #f5426c;font-size:0}.footer__info:after{content:"";display:block;clear:both}.footer__contact{padding-top:2%}.footer__contact-title{color:#555;font-weight:400}.footer__follow{padding-top:2%;padding-left:5%}.footer__contact-address,.footer__contact-email{font-size:12px;color:#827d77}.footer__follow-title{margin-left:15px;margin-right:3px;color:#555;font-weight:400}.footer__copyright{margin:30px 0}.footer__copyright-title{display:inline-block;max-width:300px}.footer__copyright-logo{display:inline-block;margin:0 20px;max-width:44px}#prompt{display: none;position: fixed;top:50%;left: 50%;transform:translate(-50%,-50%);background: #fff;border:1px solid #f5426c;padding:3% 5%;border-radius: 8px;}#prompt h3{color: #f5426c;margin-bottom: 30px;font-size: 1.8rem;}#prompt button{cursor: pointer;width: 100%;background: #fff;border:1px solid #f5426c;color: #f5426c;padding: 2% 0;border-radius: 8px;}
 .lock-design li~li.lock-design__avatar>p{margin-top: 40px;}
 .lock-design li.lock-design__avatar>p{margin-top: 40px;}
 .lock-design__locker2 img.img1,
@@ -93,4 +93,7 @@ header .language{
 }
 .Suchee{
 	background-image: url(../img/suchee.jpg);
+}
+.Gin{
+	background-image: url(../img/gin.jpg);
 }

diff --git a/public/populstay_webpage/index.html b/public/populstay_webpage/index.html
@@ -285,7 +285,15 @@
                         <a target="_blank" href="https://www.linkedin.com/in/sucheendrakumar/">
                             <div class="intro__team-item-img Suchee"></div>
                         </a> <a target="_blank" href="https://www.linkedin.com/in/sucheendrakumar/"><i class="intro__team-item-name i18n" name="intro__team-item-name-Suchee">Suchee</i></a> <span class="intro__team-item-title i18n" name="item-position10"></span> </li>
-                        
+                    <li class="intro__team-item">
+                        <a target="_blank" href="https://www.linkedin.com/in/%E9%9D%99-%E5%88%98-82a71b165/">
+                            <div class="intro__team-item-img Gin"></div>
+                        </a> <a target="_blank" href="https://www.linkedin.com/in/%E9%9D%99-%E5%88%98-82a71b165/"><i class="intro__team-item-name i18n" name="intro__team-item-name-Gin">Gin</i></a> <span class="intro__team-item-title i18n" name="item-position11"></span> </li>
+                    <!-- <li class="intro__team-item">
+                        <a target="_blank" href="">
+                            <div class="intro__team-item-img"></div>
+                        </a> <a target="_blank" href=""><i class="intro__team-item-name i18n" name="intro__team-item-name-Alan">。。</i></a> <span class="intro__team-item-title i18n" name="item-position12"></span> </li>
+                         -->
                 </ul>
                 <div class="intro__divider"></div>
             </div>
